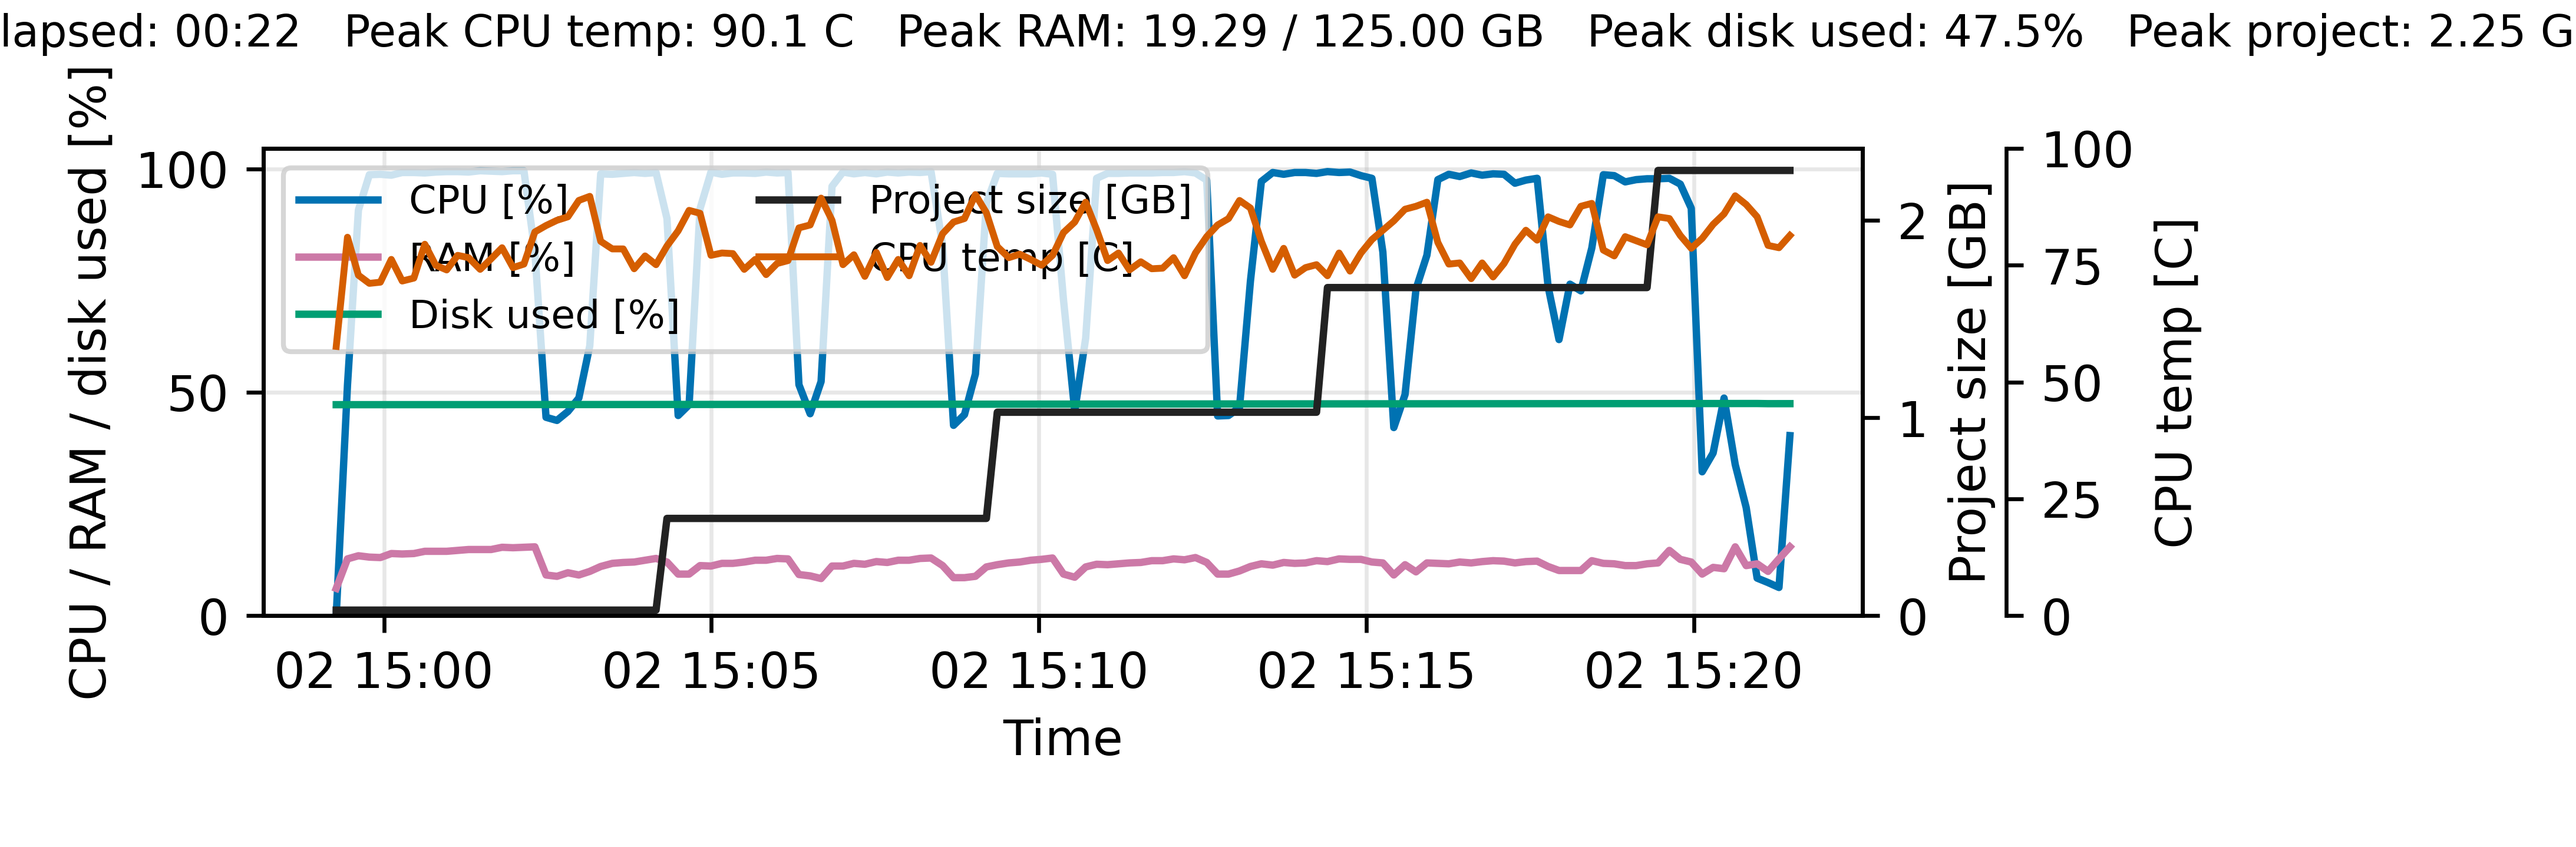
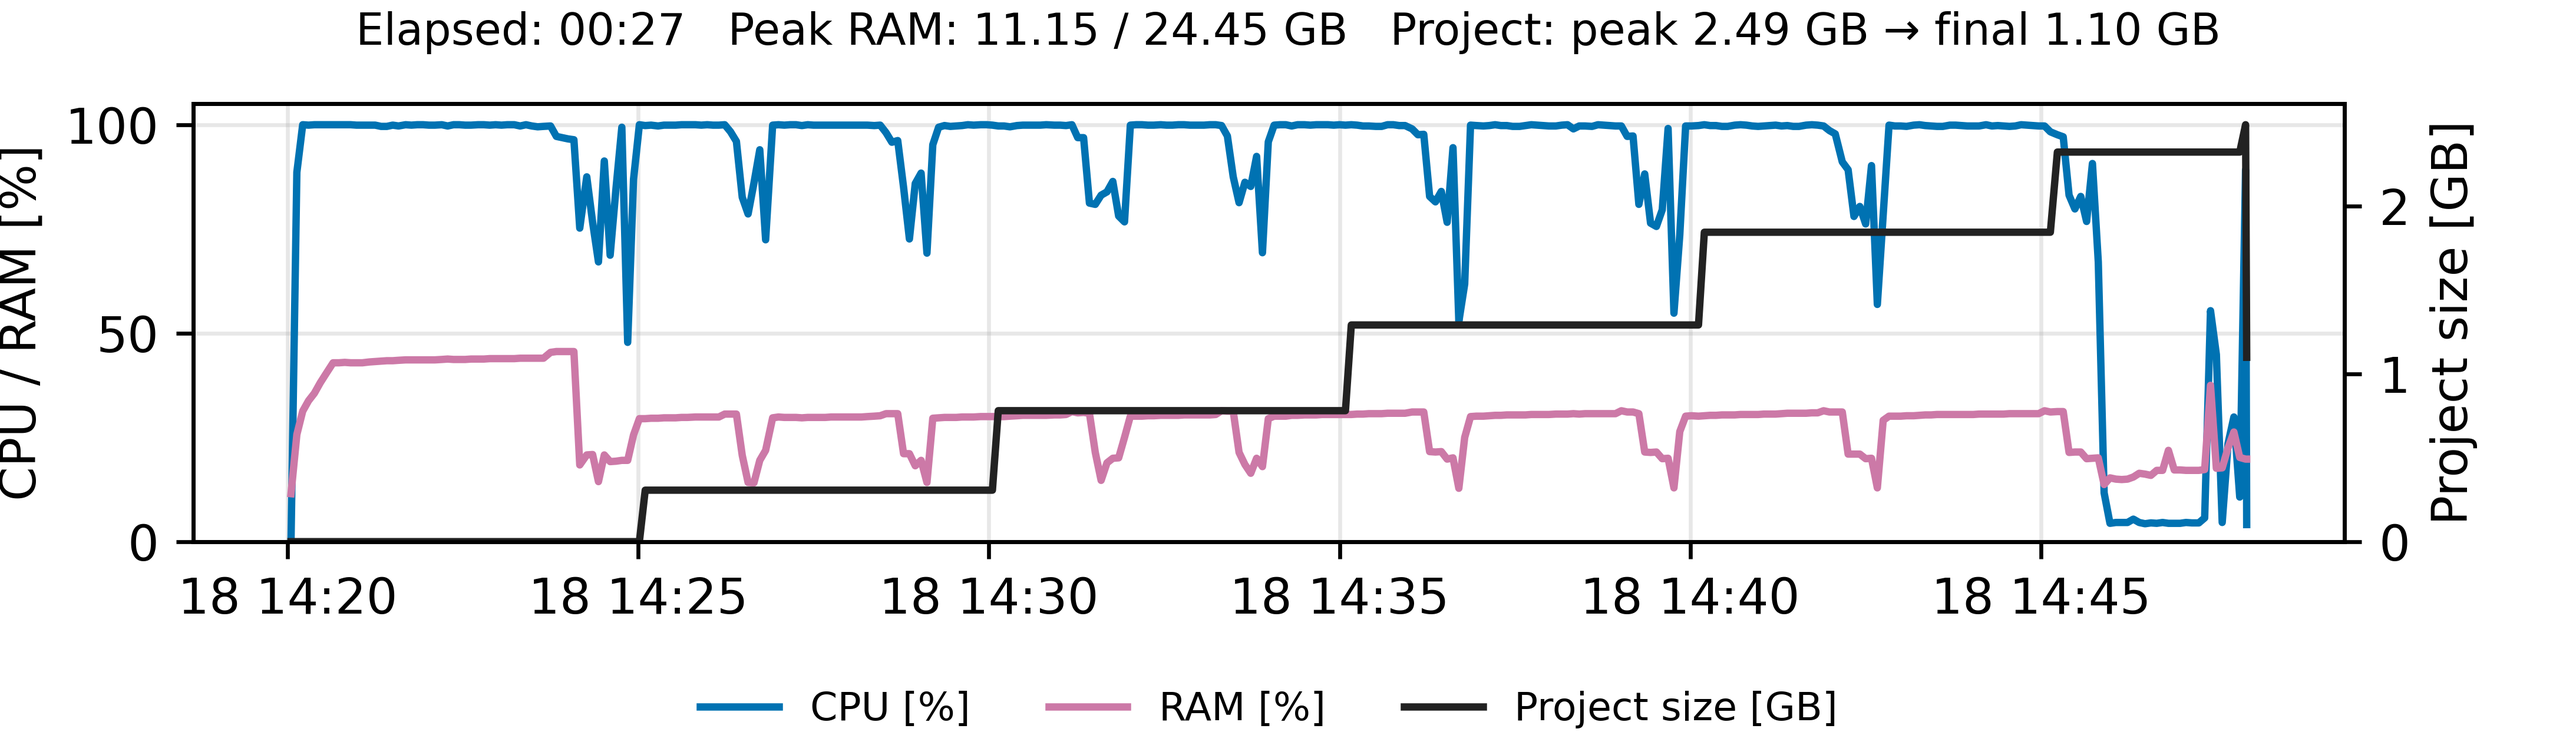
docs(tutorial): publish accepted RC7 performance plot

diff --git a/docs/Tutorial/07-results-and-diagnostics.md b/docs/Tutorial/07-results-and-diagnostics.md
@@ -111,14 +111,21 @@ Plot file to open:
 
 Reference plot (tutorial baseline, `ensemble_size=30`):
 
-![Project performance plot (Rofental tutorial reference run)]({{ site.baseurl }}/assets/images/tutorial/rofental_2022_2023_es30/project_perf.png?v=20260703)
+![Project performance plot (Rofental tutorial reference run)]({{ site.baseurl }}/assets/images/tutorial/rofental_2022_2023_es30/project_perf.png?v=20260718)
 
-_`project_perf.png` from the Rofental tutorial reference run (`100 m`, `ensemble_size=30`)._
+_`project_perf.png` from the accepted exact-RC7 WSL tutorial run (`100 m`,
+`ensemble_size=30`, 24 workers). Runtime and resource values are specific to
+that machine._
 
 What to read in the plot:
 
-- **Relative utilization curves**: look for sustained CPU use during step processing, stable RAM use, and filesystem-used percentage that stays below critical disk pressure.
-- **Project-size curve**: compare project directory growth against filesystem-used percentage. Project size is scanned at a throttled interval, so it can update in steps rather than every sample.
+- **Relative utilization curves**: look for sustained CPU use during step
+  processing and stable RAM use. Filesystem capacity telemetry remains in the
+  CSV instead of competing with these curves in the figure.
+- **Project-size curve**: follow project-directory growth across the steps. The
+  final forced sample shows the drop after automatic restart-state cleanup; in
+  this run, project size falls from a 2.49 GB peak to 1.10 GB. Periodic samples
+  are throttled, so earlier growth can update in steps rather than every row.
 - **Thermal curve**: when host sensors are readable, CPU temperature is plotted on its own axis. Missing thermal data is expected in some containers and does not invalidate the CPU/RAM/disk diagnostics.
 - **Timing structure**: repeated patterns often correspond to repeated step execution.
 
